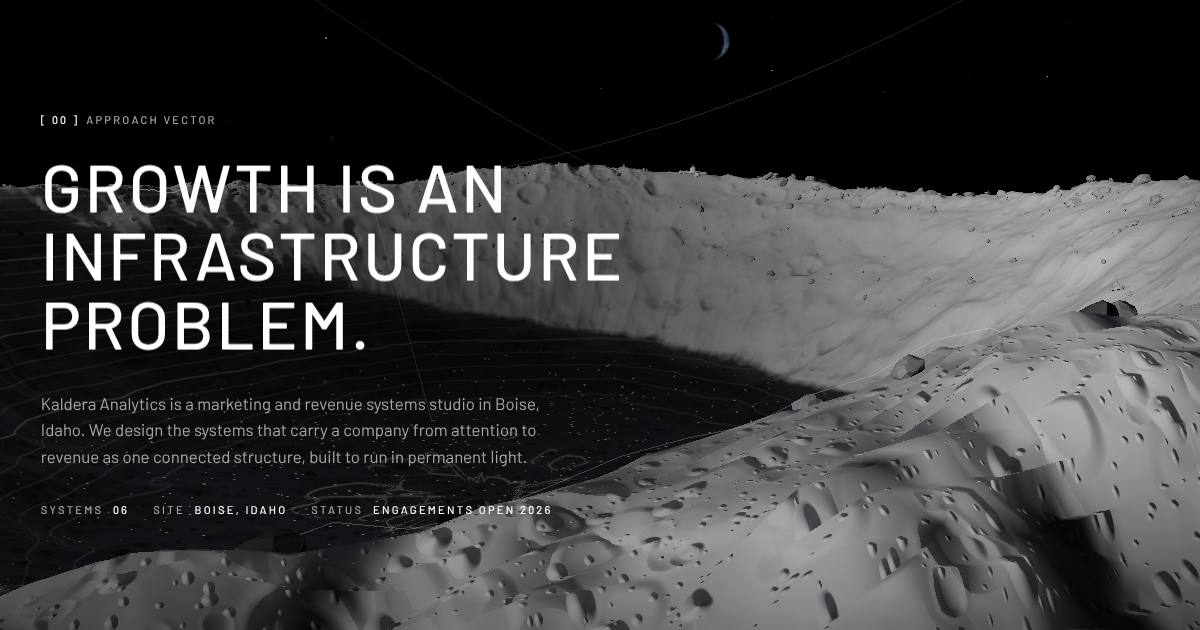
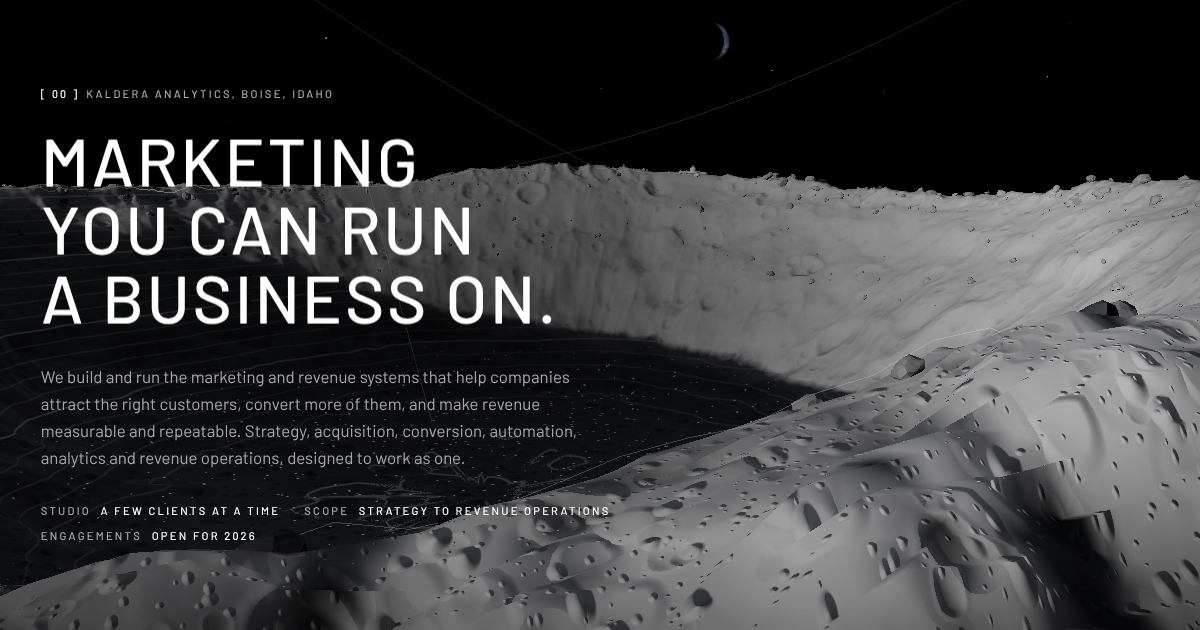
Reposition the site copy around marketing and revenue outcomes
The copy now sells what Kaldera does rather than the lunar scene. The hero
states the core claim ("Marketing you can run a business on") and names the
six parts of the system; each section leads with the service in the eyebrow,
a plain declarative title, a paragraph on how it works and what it produces,
and three spec rows (Includes, Measures, Feeds) that give the scope, the
metrics it is judged by and the part it hands off to. The close asks for the
visitor's growth problem and says what they get back. Navigation, HUD status,
calls to action, metadata, the share image and the README follow the same
language. The scene stays as the visual identity; no sentence depends on it.

Three small style rules support the longer labels: the top-bar call to action
never wraps, the decorative status line hides below 1280px, and the scroll
cue hides on viewports under 760px tall.

Claude-Session: https://claude.ai/code/session_01G5NsSRE6GArRVuAczwcgMx

diff --git a/kaldera/index.html b/kaldera/index.html
@@ -3,21 +3,21 @@
   <head>
     <meta charset="UTF-8" />
     <meta name="viewport" content="width=device-width, initial-scale=1.0, viewport-fit=cover" />
-    <title>Kaldera Analytics | Growth is an infrastructure problem.</title>
+    <title>Kaldera Analytics | Marketing and revenue systems in Boise, Idaho</title>
     <meta name="description" content="%SITE_DESCRIPTION%" />
     <meta name="theme-color" content="#000000" />
     <meta name="color-scheme" content="dark" />
     <link rel="canonical" href="%SITE_URL%/" />
     <meta property="og:type" content="website" />
     <meta property="og:site_name" content="Kaldera Analytics" />
-    <meta property="og:title" content="Kaldera Analytics | Growth is an infrastructure problem." />
+    <meta property="og:title" content="Kaldera Analytics | Marketing and revenue systems in Boise, Idaho" />
     <meta property="og:description" content="%SITE_DESCRIPTION%" />
     <meta property="og:url" content="%SITE_URL%/" />
     <meta property="og:image" content="%SITE_URL%/og.png" />
     <meta property="og:image:width" content="1200" />
     <meta property="og:image:height" content="630" />
     <meta name="twitter:card" content="summary_large_image" />
-    <meta name="twitter:title" content="Kaldera Analytics | Growth is an infrastructure problem." />
+    <meta name="twitter:title" content="Kaldera Analytics | Marketing and revenue systems in Boise, Idaho" />
     <meta name="twitter:description" content="%SITE_DESCRIPTION%" />
     <meta name="twitter:image" content="%SITE_URL%/og.png" />
     <link rel="icon" href="/favicon.svg" type="image/svg+xml" />
@@ -65,9 +65,7 @@
         <span class="wordmark-sub">Analytics</span>
       </a>
       <p class="hud-status">
-        <span>Site 01</span><span class="hud-sep" aria-hidden="true">/</span>
-        <span>South polar rim</span><span class="hud-sep" aria-hidden="true">/</span>
-        <span>Permanent light</span><span class="hud-sep" aria-hidden="true">/</span>
+        <span>Marketing and revenue systems</span><span class="hud-sep" aria-hidden="true">/</span>
         <span data-scene-status>Poster</span>
       </p>
       <div class="hud-right">
@@ -84,131 +82,149 @@
             <button type="button" class="sys-opt" data-quality-opt="low" aria-pressed="false">Low</button>
           </div>
         </div>
-        <a class="btn hud-cta" href="#contact">Open a channel</a>
+        <a class="btn hud-cta" href="#contact">Start a conversation</a>
       </div>
     </header>
 
     <nav class="rail" aria-label="Section index">
       <ol class="rail-list">
-        <li><a class="rail-link is-active" href="#hero" aria-current="true" aria-label="00 Approach vector"><span class="rail-name">Approach vector</span><span class="rail-num">00</span><span class="rail-tick" aria-hidden="true"></span></a></li>
+        <li><a class="rail-link is-active" href="#hero" aria-current="true" aria-label="00 Overview"><span class="rail-name">Overview</span><span class="rail-num">00</span><span class="rail-tick" aria-hidden="true"></span></a></li>
         <li><a class="rail-link" href="#demand" aria-label="01 Demand"><span class="rail-name">Demand</span><span class="rail-num">01</span><span class="rail-tick" aria-hidden="true"></span></a></li>
         <li><a class="rail-link" href="#acquisition" aria-label="02 Acquisition"><span class="rail-name">Acquisition</span><span class="rail-num">02</span><span class="rail-tick" aria-hidden="true"></span></a></li>
         <li><a class="rail-link" href="#conversion" aria-label="03 Conversion"><span class="rail-name">Conversion</span><span class="rail-num">03</span><span class="rail-tick" aria-hidden="true"></span></a></li>
         <li><a class="rail-link" href="#automation" aria-label="04 Automation"><span class="rail-name">Automation</span><span class="rail-num">04</span><span class="rail-tick" aria-hidden="true"></span></a></li>
-        <li><a class="rail-link" href="#data" aria-label="05 Data"><span class="rail-name">Data</span><span class="rail-num">05</span><span class="rail-tick" aria-hidden="true"></span></a></li>
-        <li><a class="rail-link" href="#revenue" aria-label="06 Revenue"><span class="rail-name">Revenue</span><span class="rail-num">06</span><span class="rail-tick" aria-hidden="true"></span></a></li>
-        <li><a class="rail-link" href="#contact" aria-label="07 Open channel"><span class="rail-name">Open channel</span><span class="rail-num">07</span><span class="rail-tick" aria-hidden="true"></span></a></li>
+        <li><a class="rail-link" href="#data" aria-label="05 Analytics"><span class="rail-name">Analytics</span><span class="rail-num">05</span><span class="rail-tick" aria-hidden="true"></span></a></li>
+        <li><a class="rail-link" href="#revenue" aria-label="06 Revenue operations"><span class="rail-name">Revenue operations</span><span class="rail-num">06</span><span class="rail-tick" aria-hidden="true"></span></a></li>
+        <li><a class="rail-link" href="#contact" aria-label="07 Contact"><span class="rail-name">Contact</span><span class="rail-num">07</span><span class="rail-tick" aria-hidden="true"></span></a></li>
       </ol>
     </nav>
 
     <main id="main">
-      <section class="beat beat-hero reveal" id="hero" data-index="0" data-node="Approach vector" aria-labelledby="hero-title">
+      <section class="beat beat-hero reveal" id="hero" data-index="0" data-node="Overview" aria-labelledby="hero-title">
         <div class="panel panel-hero">
-          <p class="eyebrow fade"><span class="idx">[ 00 ]</span>Approach vector</p>
+          <p class="eyebrow fade"><span class="idx">[ 00 ]</span>Kaldera Analytics, Boise, Idaho</p>
           <h1 class="display display-h1" id="hero-title">
-            <span class="line"><span class="line-inner">Growth is an</span></span>
-            <span class="line"><span class="line-inner">infrastructure</span></span>
-            <span class="line"><span class="line-inner">problem.</span></span>
+            <span class="line"><span class="line-inner">Marketing</span></span>
+            <span class="line"><span class="line-inner">you can run</span></span>
+            <span class="line"><span class="line-inner">a business on.</span></span>
           </h1>
-          <p class="dek fade">Kaldera Analytics is a marketing and revenue systems studio in Boise, Idaho. We design the systems that carry a company from attention to revenue as one connected structure, built to run in permanent light.</p>
+          <p class="dek fade">We build and run the marketing and revenue systems that help companies attract the right customers, convert more of them, and make revenue measurable and repeatable. Strategy, acquisition, conversion, automation, analytics and revenue operations, designed to work as one.</p>
           <ul class="hero-meta label fade" aria-label="Studio">
-            <li><span>Systems</span><span>06</span></li>
-            <li><span>Site</span><span>Boise, Idaho</span></li>
-            <li><span>Status</span><span>Engagements open 2026</span></li>
+            <li><span>Studio</span><span>A few clients at a time</span></li>
+            <li><span>Scope</span><span>Strategy to revenue operations</span></li>
+            <li><span>Engagements</span><span>Open for 2026</span></li>
           </ul>
         </div>
         <a class="cue fade" href="#demand" data-cue>
-          <span class="cue-text">Scroll to traverse</span>
+          <span class="cue-text">See how it works</span>
           <span class="cue-line" aria-hidden="true"></span>
         </a>
       </section>
 
-      <section class="beat beat-node reveal" id="demand" data-index="1" data-side="left" data-node="Demand" aria-labelledby="t-demand">
+      <section class="beat beat-node reveal" id="demand" data-index="1" data-side="left" data-node="Demand generation" aria-labelledby="t-demand">
         <article class="panel">
-          <p class="eyebrow fade"><span class="idx">[ 01 ]</span>Demand</p>
-          <h2 class="display display-h2" id="t-demand"><span class="line"><span class="line-inner">Illumination array</span></span></h2>
-          <p class="dek fade">Arrays on the rim catch sunlight the floor never sees. Demand generation works the same way: positioned where attention falls, and built to turn that light into steady power for everything downstream.</p>
+          <p class="eyebrow fade"><span class="idx">[ 01 ]</span>Demand generation</p>
+          <h2 class="display display-h2" id="t-demand">
+            <span class="line"><span class="line-inner">Reach the right</span></span>
+            <span class="line"><span class="line-inner">buyers first.</span></span>
+          </h2>
+          <p class="dek fade">Demand generation starts with strategy: which accounts matter, what they need to hear, and where they will hear it. We build the content, account-based campaigns and channel programs that reach those buyers before they start comparing vendors, so the pipeline that follows starts qualified.</p>
           <dl class="spec">
-            <div class="spec-row fade"><dt>Input</dt><dd>Attention</dd></div>
-            <div class="spec-row fade"><dt>Output</dt><dd>Qualified pipeline</dd></div>
-            <div class="spec-row fade"><dt>Mode</dt><dd>Always-on</dd></div>
+            <div class="spec-row fade"><dt>Includes</dt><dd>Positioning, content, account-based marketing</dd></div>
+            <div class="spec-row fade"><dt>Measures</dt><dd>Qualified pipeline, cost per qualified opportunity</dd></div>
+            <div class="spec-row fade"><dt>Feeds</dt><dd>[ 02 ] Acquisition</dd></div>
           </dl>
         </article>
       </section>
 
-      <section class="beat beat-node reveal" id="acquisition" data-index="2" data-side="right" data-node="Acquisition" aria-labelledby="t-acquisition">
+      <section class="beat beat-node reveal" id="acquisition" data-index="2" data-side="right" data-node="Paid acquisition" aria-labelledby="t-acquisition">
         <article class="panel">
-          <p class="eyebrow fade"><span class="idx">[ 02 ]</span>Acquisition</p>
-          <h2 class="display display-h2" id="t-acquisition"><span class="line"><span class="line-inner">Relay network</span></span></h2>
-          <p class="dek fade">A relay carries signal across terrain no single antenna can cover. Acquisition is the set of channels, offers and handoffs that bring the right people into range and keep the line open.</p>
+          <p class="eyebrow fade"><span class="idx">[ 02 ]</span>Paid acquisition</p>
+          <h2 class="display display-h2" id="t-acquisition">
+            <span class="line"><span class="line-inner">Pay for pipeline,</span></span>
+            <span class="line"><span class="line-inner">not for clicks.</span></span>
+          </h2>
+          <p class="dek fade">Paid search, paid social, programmatic and partner channels, run against one plan and one definition of a good lead. We manage media and lead generation to the numbers that matter downstream: lead quality, cost per qualified lead, and what each channel contributes to closed revenue, so budget moves toward what works.</p>
           <dl class="spec">
-            <div class="spec-row fade"><dt>Input</dt><dd>Qualified interest</dd></div>
-            <div class="spec-row fade"><dt>Output</dt><dd>Captured opportunity</dd></div>
-            <div class="spec-row fade"><dt>Mode</dt><dd>Multi-channel</dd></div>
+            <div class="spec-row fade"><dt>Includes</dt><dd>Paid search and social, programmatic, lead generation</dd></div>
+            <div class="spec-row fade"><dt>Measures</dt><dd>Cost per qualified lead, lead quality, revenue by channel</dd></div>
+            <div class="spec-row fade"><dt>Feeds</dt><dd>[ 03 ] Conversion</dd></div>
           </dl>
         </article>
       </section>
 
       <section class="beat beat-node reveal" id="conversion" data-index="3" data-side="left" data-node="Conversion" aria-labelledby="t-conversion">
         <article class="panel">
-          <p class="eyebrow fade"><span class="idx">[ 03 ]</span>Conversion</p>
-          <h2 class="display display-h2" id="t-conversion"><span class="line"><span class="line-inner">Landing pad</span></span></h2>
-          <p class="dek fade">Every approach ends on a surface built for the landing. Conversion is the engineering of that surface: the offer, the path, and the friction removed between intent and commitment.</p>
+          <p class="eyebrow fade"><span class="idx">[ 03 ]</span>Conversion rate optimization</p>
+          <h2 class="display display-h2" id="t-conversion">
+            <span class="line"><span class="line-inner">More pipeline from</span></span>
+            <span class="line"><span class="line-inner">the same traffic.</span></span>
+          </h2>
+          <p class="dek fade">Most funnels leak at the points nobody owns: the landing page, the form, the offer, the handoff to sales. Conversion rate optimization is how we find those points and fix them, with research, experiments and measurement rather than opinion, so every dollar of acquisition produces more opportunities.</p>
           <dl class="spec">
-            <div class="spec-row fade"><dt>Input</dt><dd>Intent</dd></div>
-            <div class="spec-row fade"><dt>Output</dt><dd>Commitment</dd></div>
-            <div class="spec-row fade"><dt>Mode</dt><dd>Measured</dd></div>
+            <div class="spec-row fade"><dt>Includes</dt><dd>Landing pages, offers, forms, experimentation</dd></div>
+            <div class="spec-row fade"><dt>Measures</dt><dd>Conversion rate by stage, cost per opportunity</dd></div>
+            <div class="spec-row fade"><dt>Feeds</dt><dd>[ 04 ] Automation</dd></div>
           </dl>
         </article>
       </section>
 
       <section class="beat beat-node reveal" id="automation" data-index="4" data-side="right" data-node="Automation" aria-labelledby="t-automation">
         <article class="panel">
-          <p class="eyebrow fade"><span class="idx">[ 04 ]</span>Automation</p>
-          <h2 class="display display-h2" id="t-automation"><span class="line"><span class="line-inner">Autonomous fleet</span></span></h2>
-          <p class="dek fade">The fleet runs the routine traverses on its own. Agents qualify, enrich and follow up around the clock, and route the judgment calls to people.</p>
-          <dl class="spec">
-            <div class="spec-row fade"><dt>Input</dt><dd>Routine work</dd></div>
-            <div class="spec-row fade"><dt>Output</dt><dd>Time and consistency</dd></div>
-            <div class="spec-row fade"><dt>Mode</dt><dd>Agentic, human-routed</dd></div>
-          </dl>
-        </article>
-      </section>
-
-      <section class="beat beat-node reveal" id="data" data-index="5" data-side="left" data-node="Data" aria-labelledby="t-data">
-        <article class="panel">
-          <p class="eyebrow fade"><span class="idx">[ 05 ]</span>Data</p>
-          <h2 class="display display-h2" id="t-data"><span class="line"><span class="line-inner">Shadowed reserve</span></span></h2>
-          <p class="dek fade">The shadowed floor holds the reserve the whole base draws from. Data infrastructure is that reserve for a company: every number traces back to a source, and every decision can show its work.</p>
-          <dl class="spec">
-            <div class="spec-row fade"><dt>Input</dt><dd>Events</dd></div>
-            <div class="spec-row fade"><dt>Output</dt><dd>Trusted record</dd></div>
-            <div class="spec-row fade"><dt>Mode</dt><dd>Source-traced</dd></div>
-          </dl>
-        </article>
-      </section>
-
-      <section class="beat beat-node reveal" id="revenue" data-index="6" data-side="right" data-node="Revenue" aria-labelledby="t-revenue">
-        <article class="panel">
-          <p class="eyebrow fade"><span class="idx">[ 06 ]</span>Revenue operations</p>
-          <h2 class="display display-h2" id="t-revenue"><span class="line"><span class="line-inner">Pressurized core</span></span></h2>
-          <p class="dek fade">The core is where every system connects and the crew actually lives. Revenue operations is that pressurized center: one structure holding marketing, sales and success at the same pressure.</p>
-          <dl class="spec">
-            <div class="spec-row fade"><dt>Input</dt><dd>Every system</dd></div>
-            <div class="spec-row fade"><dt>Output</dt><dd>One revenue engine</dd></div>
-            <div class="spec-row fade"><dt>Mode</dt><dd>Connected</dd></div>
-          </dl>
-        </article>
-      </section>
-
-      <section class="beat beat-close reveal" id="contact" data-index="7" data-node="Open channel" aria-labelledby="t-contact">
-        <div class="panel panel-close">
-          <p class="eyebrow fade"><span class="idx">[ 07 ]</span>Open channel</p>
-          <h2 class="display display-h2" id="t-contact">
-            <span class="line"><span class="line-inner">Build for</span></span>
-            <span class="line"><span class="line-inner">permanent light.</span></span>
+          <p class="eyebrow fade"><span class="idx">[ 04 ]</span>Automation and lifecycle</p>
+          <h2 class="display display-h2" id="t-automation">
+            <span class="line"><span class="line-inner">No lead waits.</span></span>
+            <span class="line"><span class="line-inner">No step is skipped.</span></span>
           </h2>
-          <p class="dek fade">Kaldera works with a small number of companies at a time. Tell us what you are building and where it stalls.</p>
+          <p class="dek fade">Automation and lifecycle marketing turn a one-time campaign into a running system: scoring, routing, enrichment and nurture that respond in minutes, not days, and keep working after the first meeting. Where it adds value, AI agents handle the repetitive work of qualifying and following up, with the judgment calls routed to people.</p>
+          <dl class="spec">
+            <div class="spec-row fade"><dt>Includes</dt><dd>Lifecycle programs, scoring and routing, AI agents</dd></div>
+            <div class="spec-row fade"><dt>Measures</dt><dd>Speed to lead, lead-to-meeting rate, hours returned</dd></div>
+            <div class="spec-row fade"><dt>Feeds</dt><dd>[ 05 ] Analytics</dd></div>
+          </dl>
+        </article>
+      </section>
+
+      <section class="beat beat-node reveal" id="data" data-index="5" data-side="left" data-node="Analytics" aria-labelledby="t-data">
+        <article class="panel">
+          <p class="eyebrow fade"><span class="idx">[ 05 ]</span>Analytics and attribution</p>
+          <h2 class="display display-h2" id="t-data">
+            <span class="line"><span class="line-inner">Every number traces</span></span>
+            <span class="line"><span class="line-inner">back to a source.</span></span>
+          </h2>
+          <p class="dek fade">Decisions are only as good as the data under them. We build the tracking, data model and reporting that connect spend, pipeline and revenue in one place, so attribution holds up to scrutiny, the dashboards agree with the CRM, and every decision can show its work.</p>
+          <dl class="spec">
+            <div class="spec-row fade"><dt>Includes</dt><dd>Tracking, data architecture, attribution, reporting</dd></div>
+            <div class="spec-row fade"><dt>Measures</dt><dd>Revenue attribution, numbers the whole company trusts</dd></div>
+            <div class="spec-row fade"><dt>Feeds</dt><dd>[ 06 ] Revenue operations</dd></div>
+          </dl>
+        </article>
+      </section>
+
+      <section class="beat beat-node reveal" id="revenue" data-index="6" data-side="right" data-node="Revenue operations" aria-labelledby="t-revenue">
+        <article class="panel">
+          <p class="eyebrow fade"><span class="idx">[ 06 ]</span>Revenue operations and CRM</p>
+          <h2 class="display display-h2" id="t-revenue">
+            <span class="line"><span class="line-inner">One pipeline from</span></span>
+            <span class="line"><span class="line-inner">lead to renewal.</span></span>
+          </h2>
+          <p class="dek fade">Revenue operations is where the parts become one engine: CRM architecture, pipeline stages and definitions everyone shares, handoffs that hold, and forecasts leadership can plan against. It is the structure that lets marketing, sales and customer success move the same deals forward instead of working from different versions of the truth.</p>
+          <dl class="spec">
+            <div class="spec-row fade"><dt>Includes</dt><dd>CRM architecture, pipeline design, handoffs, forecasting</dd></div>
+            <div class="spec-row fade"><dt>Measures</dt><dd>Pipeline velocity, win rate, forecast accuracy</dd></div>
+            <div class="spec-row fade"><dt>Feeds</dt><dd>[ 01 ] Demand, with what closed and why</dd></div>
+          </dl>
+        </article>
+      </section>
+
+      <section class="beat beat-close reveal" id="contact" data-index="7" data-node="Contact" aria-labelledby="t-contact">
+        <div class="panel panel-close">
+          <p class="eyebrow fade"><span class="idx">[ 07 ]</span>Contact</p>
+          <h2 class="display display-h2" id="t-contact">
+            <span class="line"><span class="line-inner">Tell us where</span></span>
+            <span class="line"><span class="line-inner">growth stalls.</span></span>
+          </h2>
+          <p class="dek fade">Kaldera works with a small number of companies at a time, so every engagement gets our full attention. Write to us with what you sell, how you grow today and where it breaks down. You will get an honest read on where the system is failing and what we would fix first.</p>
           <div class="channel fade">
             <a class="channel-email link" href="mailto:%SITE_EMAIL%" data-site-email>%SITE_EMAIL%</a>
             <button type="button" class="btn btn-copy" data-copy-email>Copy</button>
@@ -219,7 +235,7 @@
             <div class="spec-row fade"><dt>Engagements</dt><dd>Open for 2026</dd></div>
             <div class="spec-row fade"><dt>Principal</dt><dd><a class="link" href="%SITE_PORTFOLIO%" rel="noopener" target="_blank" data-site-portfolio>Portfolio</a></dd></div>
           </dl>
-          <p class="colophon fade">Kaldera Analytics. Boise, Idaho. Built for permanent light.</p>
+          <p class="colophon fade">Kaldera Analytics. Boise, Idaho. Marketing and revenue systems.</p>
         </div>
       </section>
     </main>
@@ -231,7 +247,7 @@
         <div class="tele"><span class="tele-key">Sun el</span><span class="tele-val" data-tele="sun">7.1°</span></div>
         <div class="tele"><span class="tele-key">Floor T</span><span class="tele-val" data-tele="temp">40 K</span></div>
       </div>
-      <p class="active-node"><span class="tele-key">Active node</span><span data-active-node>[ 00 ] Approach vector</span></p>
+      <p class="active-node"><span class="tele-key">Section</span><span data-active-node>[ 00 ] Overview</span></p>
       <div class="traverse" aria-hidden="true"><div class="traverse-bar" data-progress></div></div>
     </footer>
 

diff --git a/kaldera/src/site.config.ts b/kaldera/src/site.config.ts
@@ -3,9 +3,9 @@
 // single place to edit the domain, contact address and portfolio link.
 export const site = {
   name: 'Kaldera Analytics',
-  tagline: 'Growth is an infrastructure problem.',
+  tagline: 'Marketing you can run a business on.',
   description:
-    'Kaldera Analytics is a marketing and revenue systems studio in Boise, Idaho. Demand, acquisition, conversion, automation, data and revenue operations designed as one connected structure.',
+    'Kaldera Analytics, Boise, Idaho. Marketing and revenue systems that help companies attract the right customers, convert more of them and make revenue repeatable.',
 
   // Production domain, registered on Cloudflare Registrar.
   domain: 'kaldera-analytics.com',

diff --git a/kaldera/src/styles/sections.css b/kaldera/src/styles/sections.css
@@ -208,6 +208,10 @@ html:not(.has-scene) .panel::before {
     padding-top: calc(var(--hud-h) + 1rem);
     padding-bottom: calc(var(--hud-h) + 1rem);
   }
+}
+
+/* The scroll cue needs clear ground below the hero panel. */
+@media (max-height: 760px) {
   .cue {
     display: none;
   }

diff --git a/kaldera/src/styles/hud.css b/kaldera/src/styles/hud.css
@@ -119,6 +119,14 @@
 
 .hud-cta {
   padding: 0.55rem 0.9rem;
+  white-space: nowrap;
+}
+
+/* The status line is decorative; it yields to the controls on laptop widths. */
+@media (max-width: 1280px) {
+  .hud-status {
+    display: none;
+  }
 }
 
 /* Bottom bar */

diff --git a/kaldera/README.md b/kaldera/README.md
@@ -1,8 +1,17 @@
 # Kaldera Analytics
 
-A sub-60-second microsite for Kaldera Analytics, a marketing and revenue systems studio in Boise, Idaho. A south-polar lunar crater, lit rim in permanent sunlight and a floor in permanent shadow, is the spatial framework: six infrastructure nodes on the rim map to Demand, Acquisition, Conversion, Automation, Data and Revenue operations, revealed by a scroll-driven camera traverse. The hero opens just outside the fractured crest, eye level with the rim blocks, looking across the bowl to the sunlit far wall with the Earth low in the sky.
+A sub-60-second microsite for Kaldera Analytics, a marketing and revenue systems studio in Boise, Idaho. A south-polar lunar crater, lit rim in permanent sunlight and a floor in permanent shadow, is the spatial framework: six installations on the rim mark the six parts of the system the copy describes (demand generation, paid acquisition, conversion, automation, analytics, revenue operations), revealed by a scroll-driven camera traverse. The scene is the visual identity; the copy stands on its own without it. The hero opens just outside the fractured crest, eye level with the rim blocks, looking across the bowl to the sunlit far wall with the Earth low in the sky.
 
 Stack: Vite, TypeScript, Three.js, GSAP, modern CSS. No frameworks. Deploys to Cloudflare as static files from `dist/`.
+
+## Copy and positioning
+
+The copy sells marketing expertise, judgment, execution and connected systems, not the lunar scene. Keep these rules when editing it.
+
+- Core claim: Kaldera builds and runs the marketing and revenue systems that help companies attract the right customers, convert more of them, and make revenue measurable and repeatable. Headline: "Marketing you can run a business on."
+- Hierarchy: the hero states the claim and names the six parts of the system. Each section is one part: the eyebrow names the service, the title states the idea in plain words, the paragraph explains how it works and what it produces, and the three spec rows read Includes (scope), Measures (the metrics it is judged by) and Feeds (the part it hands off to). The close asks for the visitor's growth problem and says what they get back.
+- Voice: plain, declarative, specific, composed. Outcomes before mechanics. Name the metric. No invented clients, results, guarantees or credentials. No generic agency language.
+- The scene, telemetry and coordinates are an aesthetic layer. No sentence may depend on a lunar reference to make sense.
 
 ## Site settings
 
